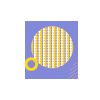
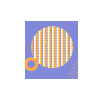
Add new shapes in img and newsletter section

diff --git a/index.html b/index.html
@@ -1060,6 +1060,17 @@
         </div>
         <!-- newsletter container end -->
       </div>
+      <div class="shapes">
+        <div class="shape-image shape-image-22">
+          <img src="img/shapes/Lykeion/memphis-shape2-primary.png" alt="" />
+        </div>
+        <div class="shape-image shape-image-23">
+          <img
+            src="img/shapes/Lykeion/olympic-circles-two-primary.png"
+            alt=""
+          />
+        </div>
+      </div>
     </section>
 
     <!--latest blog and -->

diff --git a/CSS/style.css b/CSS/style.css
@@ -384,8 +384,14 @@ section {
 }
 
 .shape-image.shape-image-22 {
-  top: 300px;
-  left: 200px;
+  top: 100px;
+  right: 100px;
+  transform: rotate(45deg);
+}
+
+.shape-image.shape-image-23 {
+  top: 50px;
+  left: 80px;
 }
 
 .topic {
